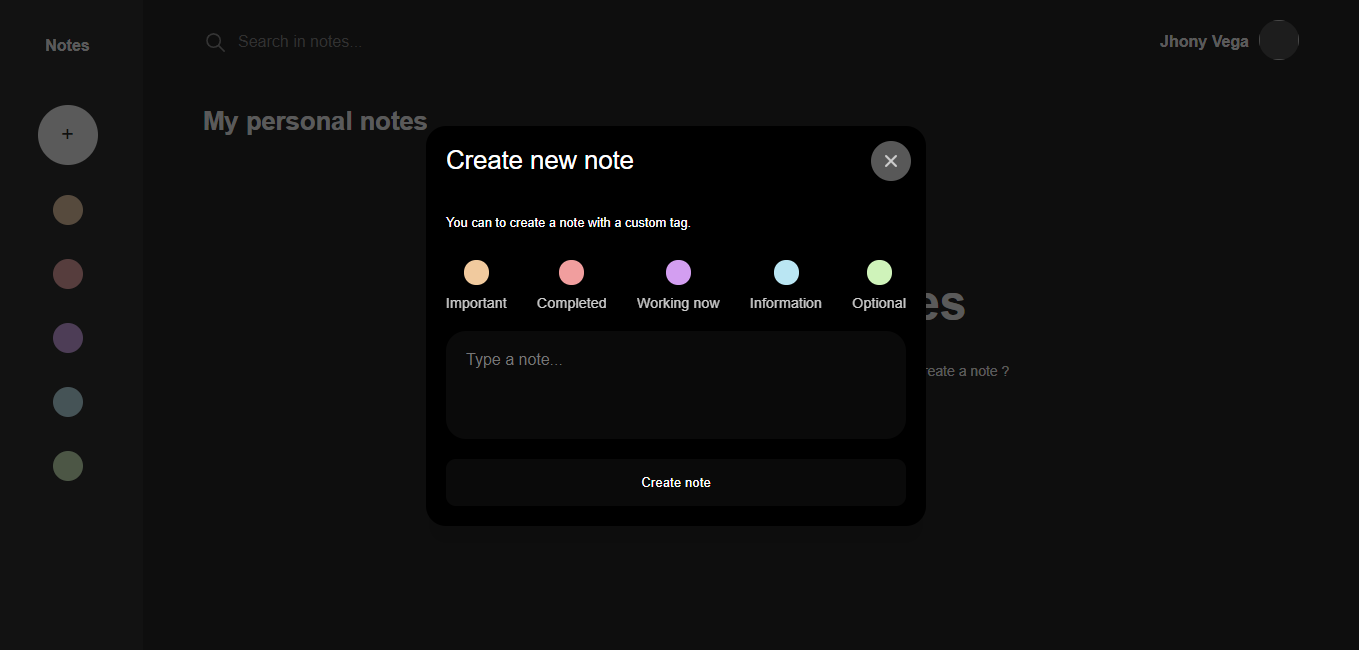
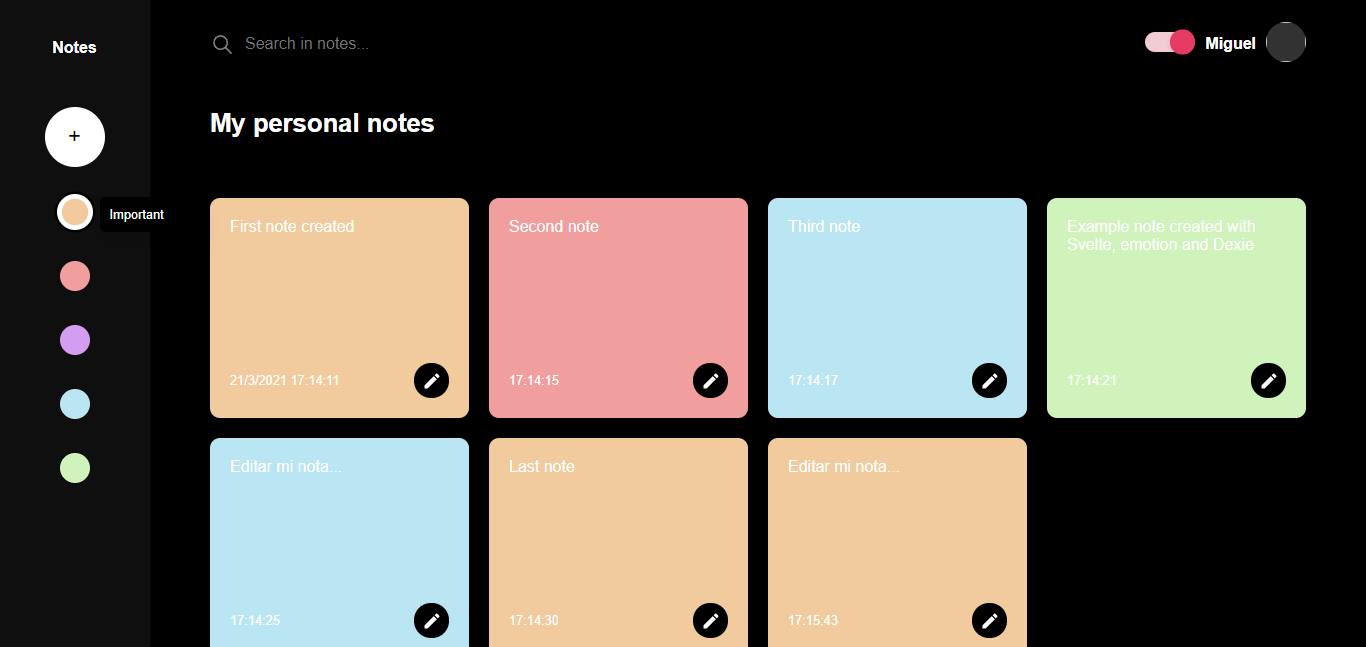
feat: Create store to save notes at indexed DB

diff --git a/src/views/Authentication/MainAuthenticationSection/MainAuthenticationSection.svelte b/src/views/Authentication/MainAuthenticationSection/MainAuthenticationSection.svelte
@@ -1,28 +1,102 @@
 <script>
-  import { cx, css } from "@emotion/css";
+  import { addAccount, verifyIfExistsAccount } from "../../../db/accountAuthentication";
 
-  const classNames = {
-    main: css({
-      width: "var(--main-width)",
-      display: "flex",
-      alignItems: "center",
-      backgroundColor : "rgba(0,0,0,.03)"
-    }),
-  };
+
+  let tab = "";
+  let username = "";
+  let email = "";
+  function changeTab(tabValue) {
+    tab = tabValue;
+  }
+
+  function onStart() {
+    if(tab === "Sign up") {
+      addAccount({username,email}).then(()=>{
+        tab = "Sign in";
+      })
+    }
+    if(tab === "Sign in") {
+      verifyIfExistsAccount({username,email}).then(isSuccess => {
+        if(isSuccess) {
+          location.reload();
+        }
+      });
+    }
+  }
 </script>
 
-<div class={cx(classNames.main)}>
+<div class="main-auth">
   <div class="type-filter">
-    <div>
-      <h1 class="type-filter__title">Choose the type login</h1>
-      <p class="type-filter__message">
-        You can to choose a option to start a session in the application.
-      </p>
-    </div>
+      {#if !tab}
+        <h1 class="type-filter__title">Choose the type login</h1>
+        <p class="type-filter__message">
+          You can to choose a option to start a session in the application.
+        </p>  
+        <div class="options-access">
+          <div class="options-access__item" on:click={() => changeTab('Sign in')}>Sign in</div>
+          <div class="options-access__item" on:click={() => changeTab('Sign up')}>Create an account</div>
+        </div>
+      {:else}
+        <section class="form">
+          <h1 class="form__title">{tab}</h1>  
+          <input type="text" placeholder="Username" class="form__control" bind:value={username}/>
+          <input type="text" placeholder="Email" class="form__control" bind:value={email} />
+          <div class="flex-center">
+            <div class="form__submit" on:click={onStart}>Start</div>
+            <div class="form__cancel" on:click={()=>changeTab('')}>Cancel</div>
+          </div>
+        </section>
+      {/if}
   </div>
 </div>
 
 <style>
+  .form {
+    display: inline-block;
+    width: 300px; 
+  }
+  .form__title {
+    font-size: 2.3em;
+    margin-bottom: 15px;
+  }
+  .form__control {
+    padding: 15px;
+    margin-bottom: 30px;
+    border-radius: 10px;
+    display: block;
+    outline: none;
+    border: none;
+    font-size: .96em;
+    width: 100%;
+  }
+  .form__submit {
+    background-color: var(--primary-color);
+    padding: 10px 30px;
+    border-radius: 5px;
+    color: var(--text-button-add-note);
+    text-align: center;
+    flex: 1;
+  }
+  .form__cancel {
+    flex: 1;
+    margin-left: 10px;
+    background-color: var(--preload-background-image);
+    padding: 10px 30px;
+    border-radius: 5px;
+    text-align: center;
+    color: var(--text-base-color);
+  }
+  .flex-center {
+    display: flex;
+    align-items: center;
+    width: 100%;
+  }
+  .main-auth {
+    width: var(--main-width);
+    display:flex;
+    align-items: center;
+    background-color: rgba(0,0,0,.03);
+  }
   .type-filter {
     width: 80%;
     margin: auto;
@@ -34,5 +108,24 @@
     color: var(--text-base-color);
     margin-top:15px;
     font-size:.9em;
+  }
+  .options-access {
+    margin-top: 30px;
+    display: inline-flex;
+    flex-direction: column;
+    width: 60%;
+  } 
+  .options-access__item {
+    transition: .3s;
+    padding: 20px 10px;
+    border-radius: 10px;
+    margin-bottom: 30px;
+    font-weight: bold;
+    border: 2px solid transparent;
+    background-color: var(--app-background);
+    box-shadow: 0 10px 20px rgba(0,0,0,.02);
+  }
+  .options-access__item:hover {
+    border-color: var(--primary-color);
   }
 </style>

diff --git a/src/db/accountAuthentication.js b/src/db/accountAuthentication.js
@@ -1,21 +1,27 @@
 import db from ".";
 
-export const verifyIfExistsAccount = ({ username, email }) => {
-    return  db.accounts.where({
+const accounts = db.table("accounts");
+
+export const verifyIfExistsAccount = async ({ username, email }) => {
+    const data = await accounts.where({
         username,
-        email : email
+        email
     }).first();
+    if(data) {
+        localStorage.setItem("user",JSON.stringify(data))
+        return true;
+    }
+    return false;
 };
 
 
 export const deleteAccount = (accountId) => {
-   return db.where("id").anyOf(accountId).delete();
+   return accounts.where("id").anyOf(accountId).delete();
 } 
-
 
 export const verifyIsLogged = async () => {
     const localData = JSON.parse(localStorage.getItem("user") || "{}");
-    const data = await db.accounts.where({
+    const data = await accounts.where({
         id : localData.id || 0,
         email : localData.email || ""
     }).first();
@@ -30,5 +36,5 @@ export const verifyIsLogged = async () => {
  * @param {{username,email,fullName,avatar}} accountProps
  */
 export const addAccount = (accountProps) => {
-    return db.accounts.add(accountProps);
+    return accounts.add(accountProps);
 };

diff --git a/src/stores/personalNotes/index.js b/src/stores/personalNotes/index.js
@@ -1,11 +1,18 @@
 import { writable } from "svelte/store";
+import { getAllNotes, addNewNote } from "../../db/personalNotes"
 
 function personalNotesStore() {
-  const { subscribe, update } = writable([]);
+  const { subscribe, update,set } = writable([]);
 
   const addNote = (payload) => {
-    update((prevState) => [...prevState, payload]);
+    addNewNote(payload).then(id=> {
+      update((prevState) => [...prevState, {...payload,id}]);
+    });
   };
+
+  getAllNotes().then(notes => {
+    set(notes);
+  })
 
   return {
     subscribe,

diff --git a/src/containers/UserDetailFloating/UserDetailFloating.svelte b/src/containers/UserDetailFloating/UserDetailFloating.svelte
@@ -1,6 +1,11 @@
 <script>
 import Avatar from "../../components/Avatar.svelte";
+import { userAccount } from "../../stores/userAccount"
 
+    let username = "";
+    userAccount.subscribe(e => {
+        username = e.username;
+    })
 </script>
 <style>
     .wrapper {
@@ -18,7 +23,7 @@ import Avatar from "../../components/Avatar.svelte";
 </style>
 <div class="wrapper">
     <span class="name"> 
-        Jhony Vega
+        {username}
     </span>
     <div class="avatar">
         <Avatar image="" alt="" dimension={40} />

diff --git a/src/db/personalNotes.js b/src/db/personalNotes.js
@@ -1,0 +1,19 @@
+import db from "."
+
+const notes = db.table("notes");
+
+export const addNewNote = async ({note,color,date}) => {
+    const user = JSON.parse(localStorage.getItem("user") || "{}");
+    const id = await notes.add({
+        note,
+        color,
+        date,
+        accountId : user.id
+    });
+    return id;
+}
+
+
+export const getAllNotes = () => {
+    return notes.toArray()
+}

diff --git a/src/containers/SideBarCreator/SideBarCreator.svelte b/src/containers/SideBarCreator/SideBarCreator.svelte
@@ -9,7 +9,6 @@
     const showTagColorOptions = () => selectColorVisible = true;
     const onColorSelected = ({detail:{color}}) => {
         personalNotes.addNote({
-            id : Math.random(),
             note : "",
             date : new Date().toLocaleTimeString(),
             color,

diff --git a/src/stores/userAccount/index.js b/src/stores/userAccount/index.js
@@ -1,0 +1,9 @@
+import { writable } from "svelte/store";
+
+function userAccountStore() {
+    const userAccountData= writable(JSON.parse(localStorage.getItem("user")));
+    return userAccountData;
+}
+
+
+export const userAccount = userAccountStore()
